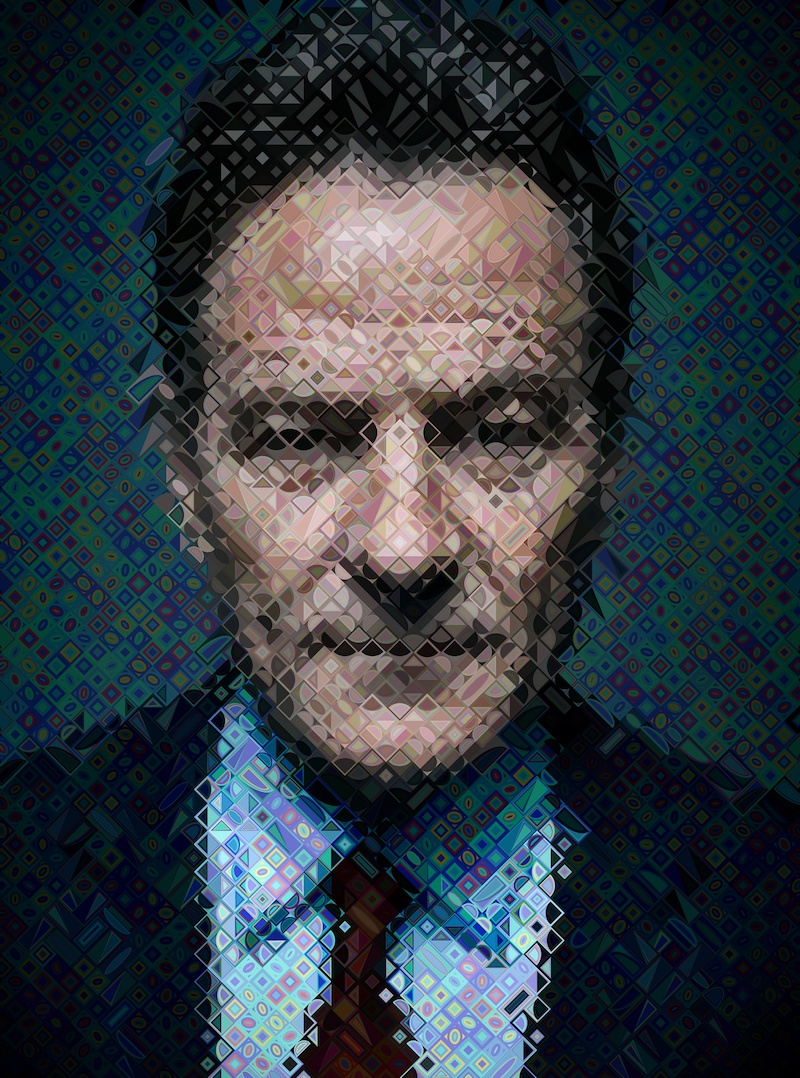
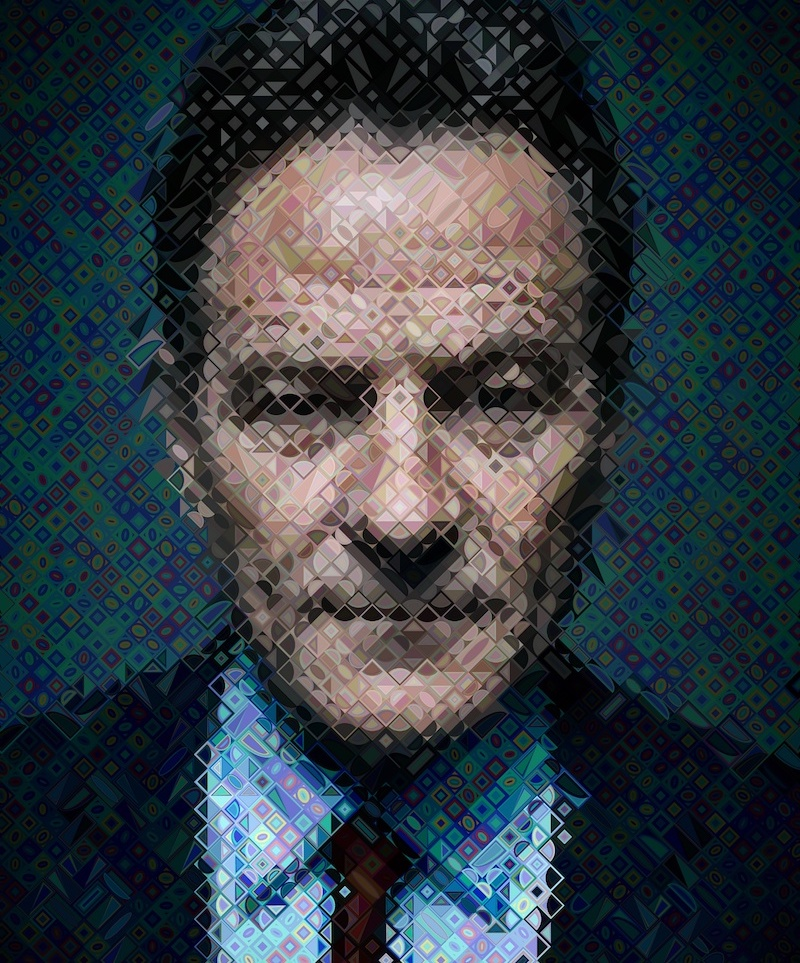
readme image

diff --git a/README.md b/README.md
@@ -1,7 +1,7 @@
 # Mosaic Shapes
 
 ![Alt text](/examples/cranston.JPEG "Bryan Cranston")
-![Alt text](/examples/cranston.JPEG "Bryan Cranston")
+![Alt text](/examples/trooper.JPEG "Storm Trooper")
 
 ```python run.py ~/Desktop/og/bo.jpg -e 2000 -d -c 1; open /tmp/out.JPEG```
 
